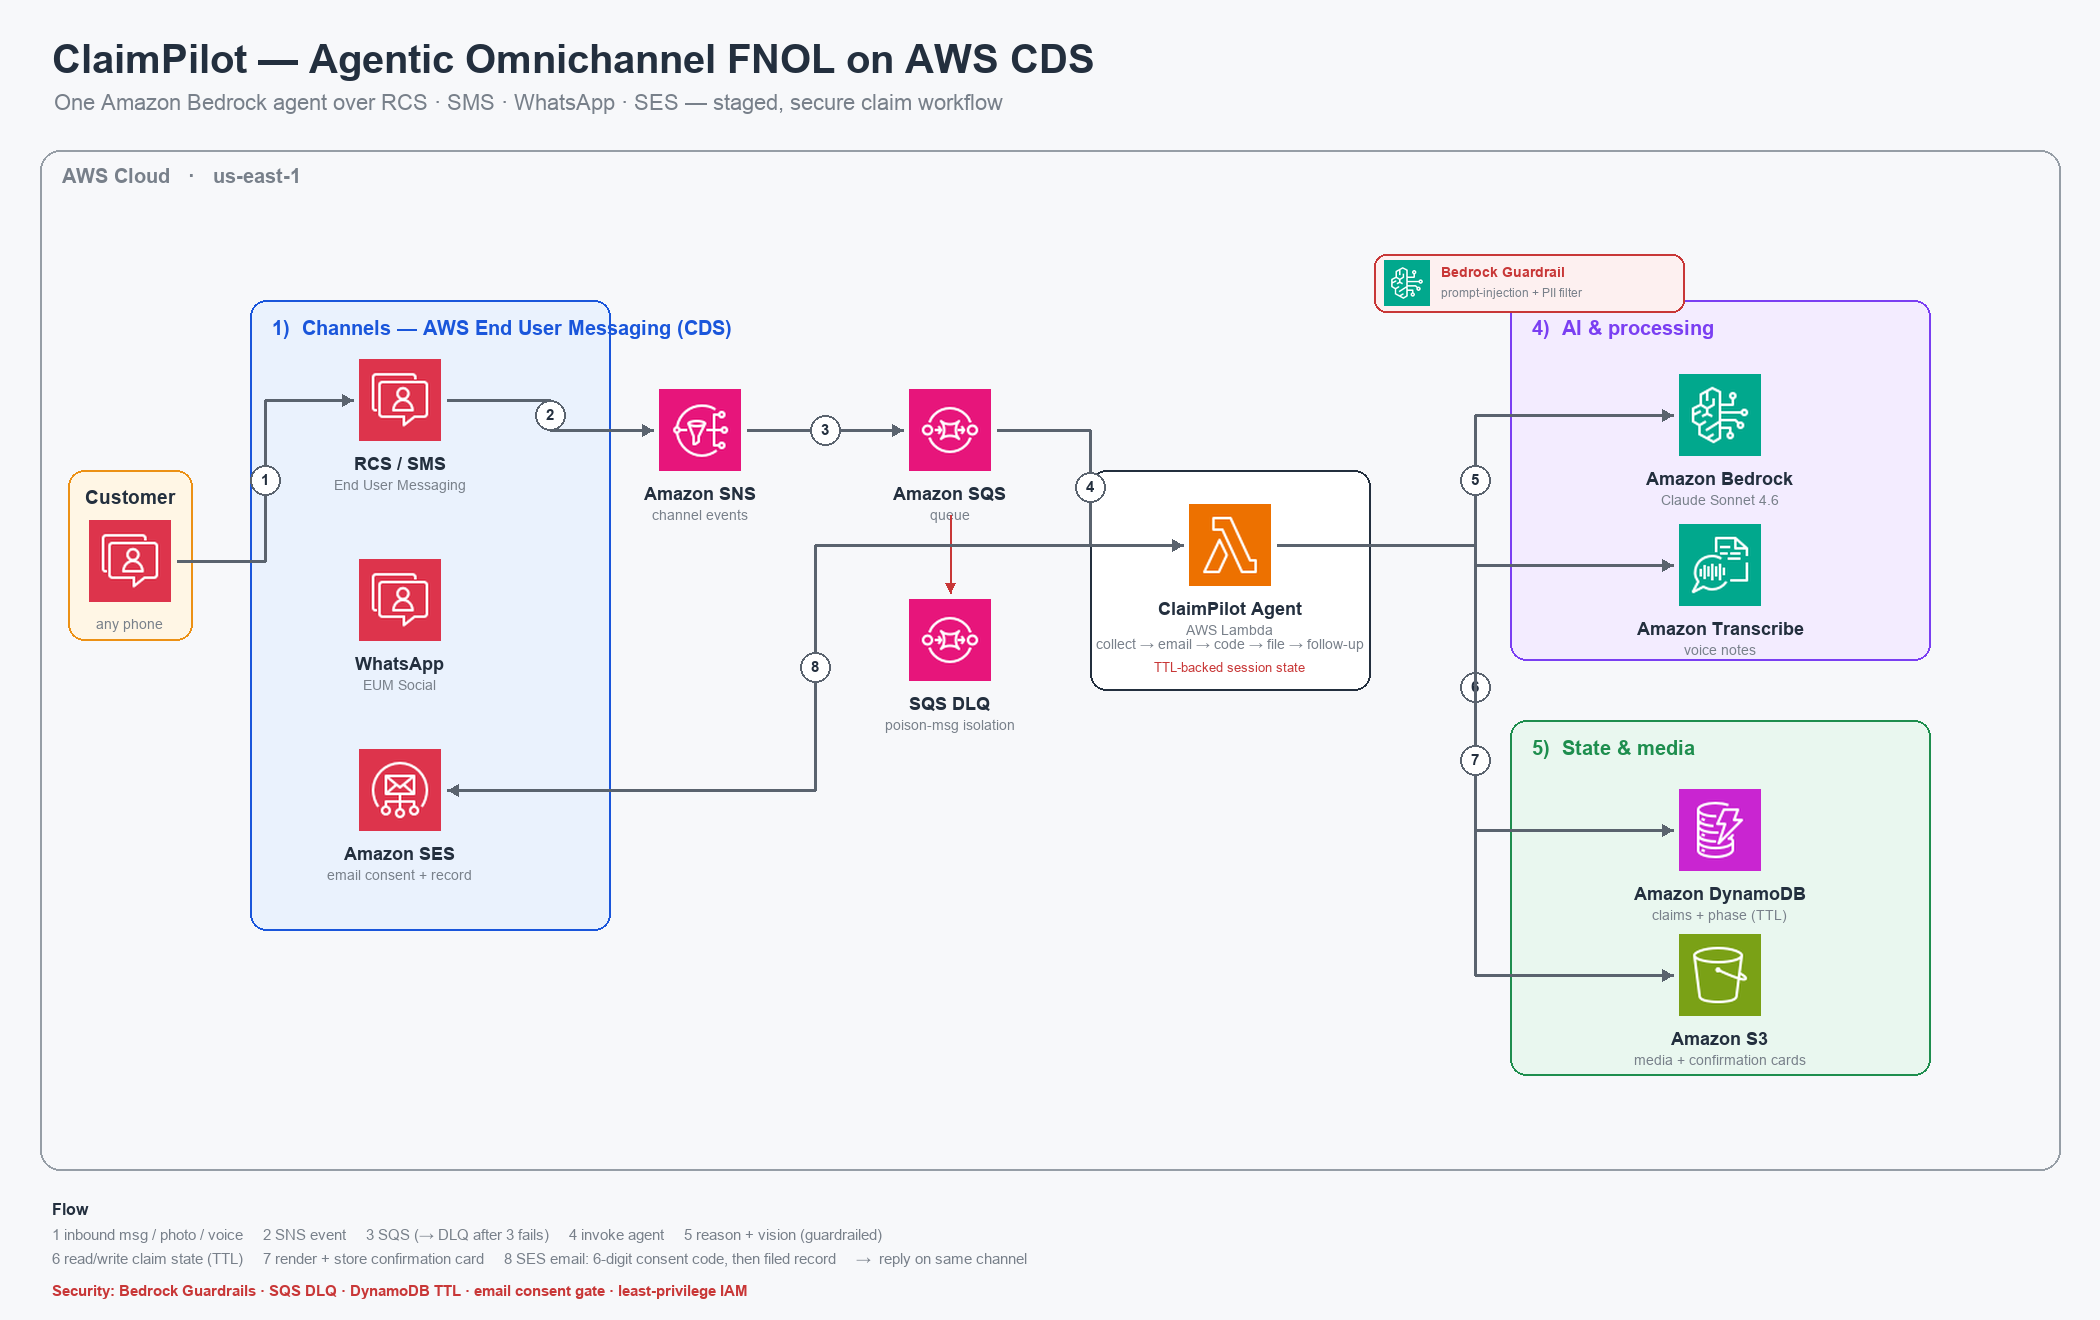
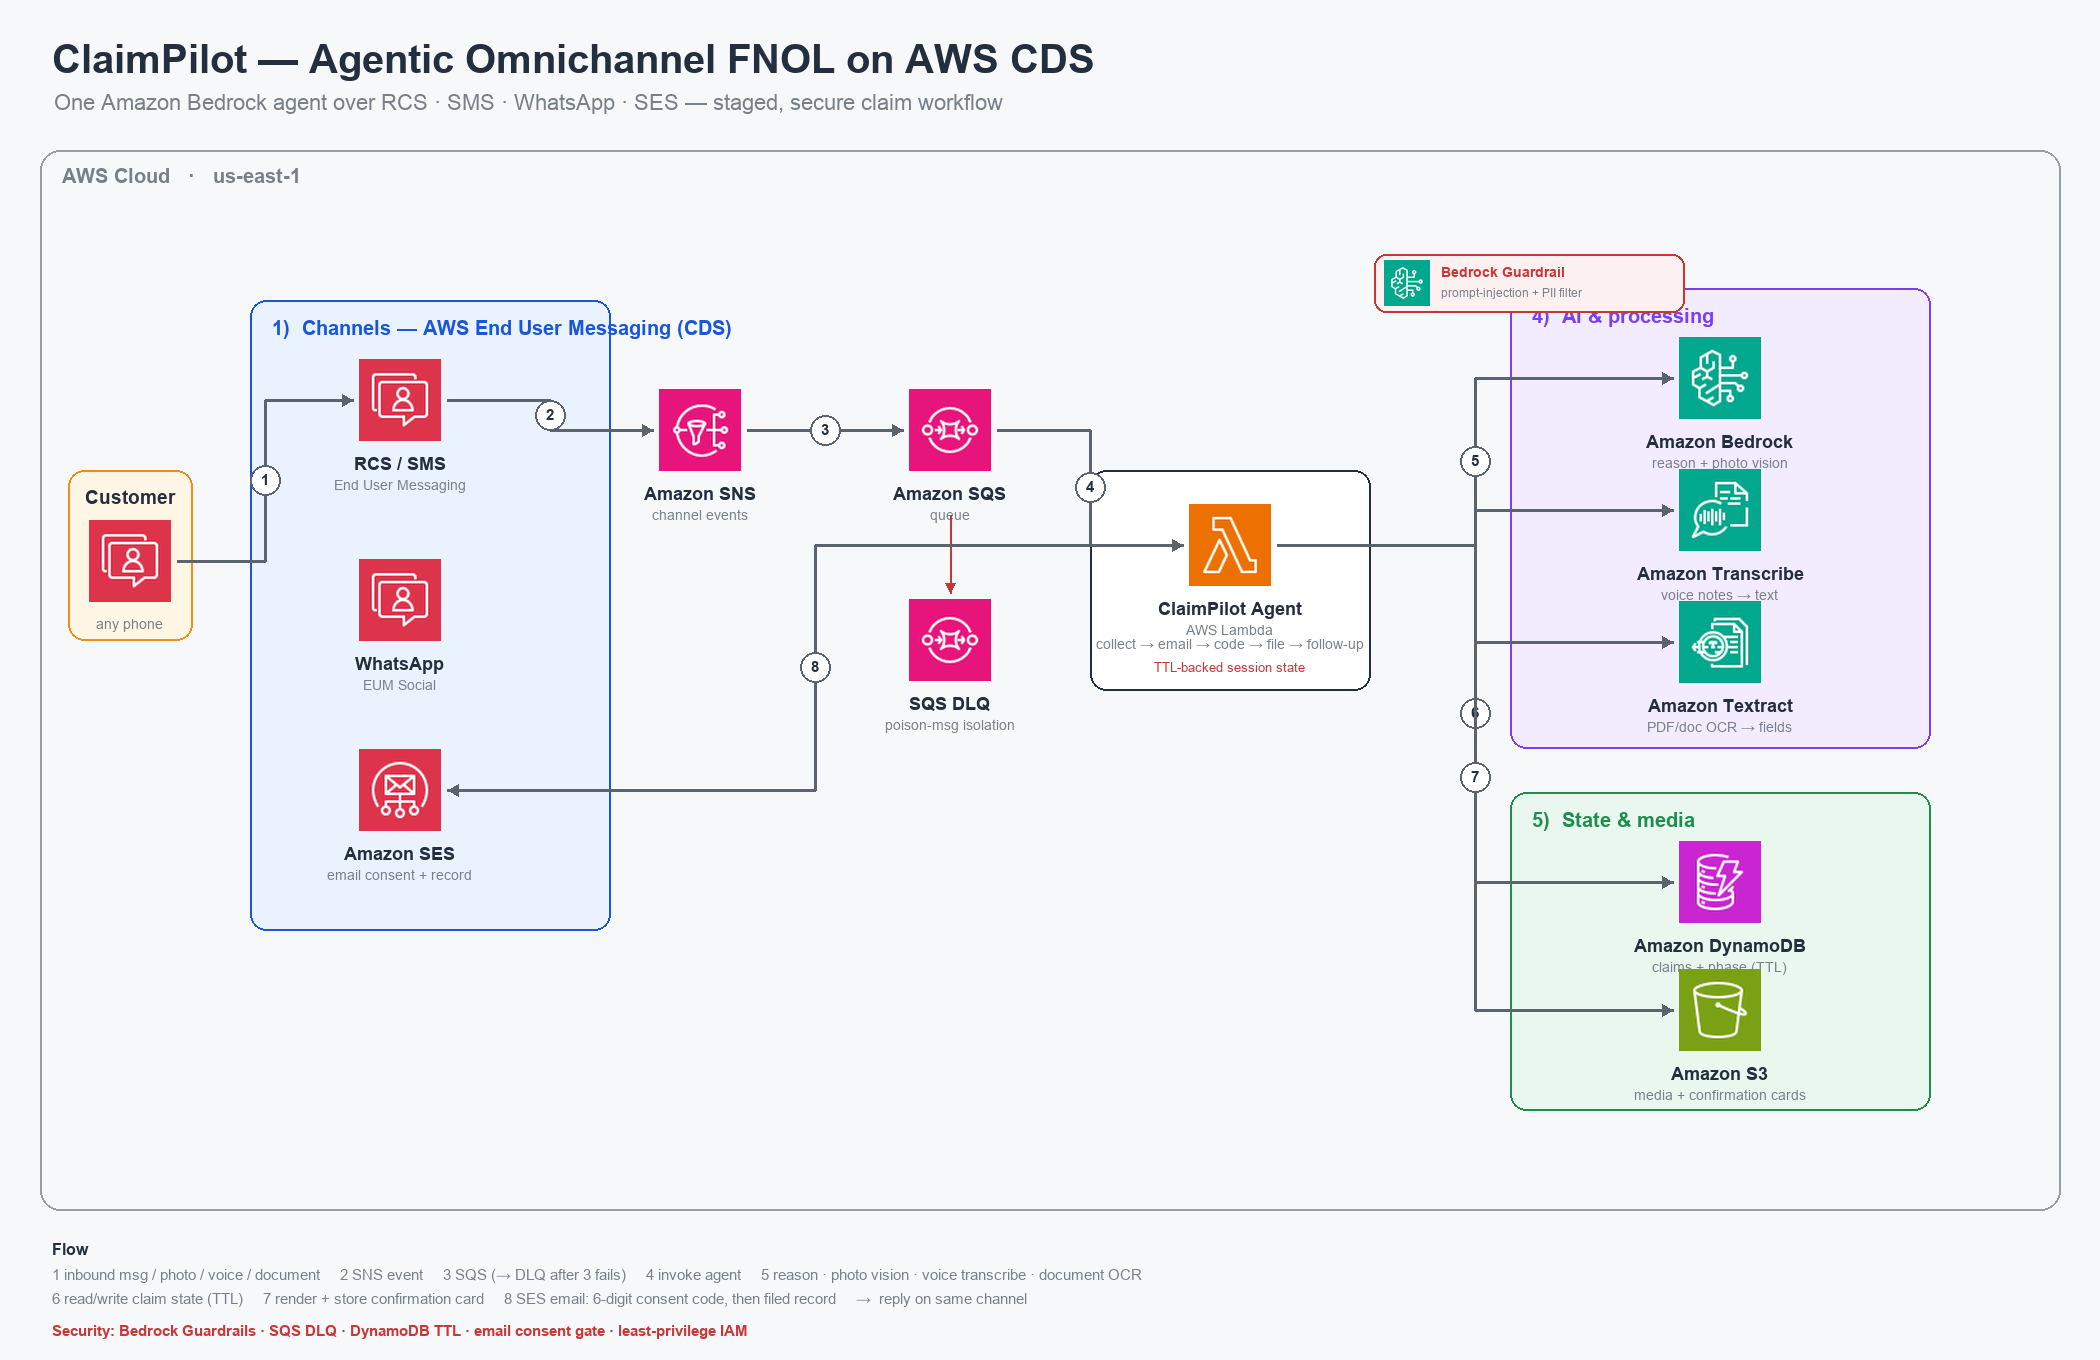
Add Amazon Textract (document OCR) to architecture diagram

diff --git a/infra/diagram/make_architecture.py b/infra/diagram/make_architecture.py
@@ -16,7 +16,7 @@ from PIL import Image, ImageDraw, ImageFont
 HERE = os.path.dirname(os.path.abspath(__file__))
 ICONS = os.path.join(HERE, "icons")
 
-W, H = 2100, 1320
+W, H = 2100, 1360
 BG = (247, 248, 250)
 INK = (35, 47, 62)
 MUTED = (120, 128, 138)
@@ -145,14 +145,15 @@ def main():
     d.text((XLAMBDA, 660), "TTL-backed session state", font=font(13), fill=SEC, anchor="ma")
 
     # ---------- 4) AI & processing ----------
-    group_box("ai", "4)  AI & processing", (XRIGHT - 210, 300, XRIGHT + 210, 660))
-    place("bedrock", "bedrock", XRIGHT, 415, "Amazon Bedrock", "Claude Sonnet 4.6")
-    place("transcribe", "transcribe", XRIGHT, 565, "Amazon Transcribe", "voice notes")
+    group_box("ai", "4)  AI & processing", (XRIGHT - 210, 288, XRIGHT + 210, 748))
+    place("bedrock", "bedrock", XRIGHT, 378, "Amazon Bedrock", "reason + photo vision")
+    place("transcribe", "transcribe", XRIGHT, 510, "Amazon Transcribe", "voice notes → text")
+    place("textract", "textract", XRIGHT, 642, "Amazon Textract", "PDF/doc OCR → fields")
 
     # ---------- 5) State & media ----------
-    group_box("data", "5)  State & media", (XRIGHT - 210, 720, XRIGHT + 210, 1075))
-    place("ddb", "dynamodb", XRIGHT, 830, "Amazon DynamoDB", "claims + phase (TTL)")
-    place("s3", "s3", XRIGHT, 975, "Amazon S3", "media + confirmation cards")
+    group_box("data", "5)  State & media", (XRIGHT - 210, 792, XRIGHT + 210, 1110))
+    place("ddb", "dynamodb", XRIGHT, 882, "Amazon DynamoDB", "claims + phase (TTL)")
+    place("s3", "s3", XRIGHT, 1010, "Amazon S3", "media + confirmation cards")
 
     # ---------- flow arrows ----------
     h_arrow("cust", "rcs", "1")
@@ -161,6 +162,7 @@ def main():
     h_arrow("sqs", "lambda", "4")
     h_arrow("lambda", "bedrock", "5")
     h_arrow("lambda", "transcribe")
+    h_arrow("lambda", "textract")
     h_arrow("lambda", "ddb", "6")
     h_arrow("lambda", "s3", "7")
     h_arrow("lambda", "ses", "8")
@@ -182,8 +184,8 @@ def main():
     ly = H - 120
     d.text((52, ly), "Flow", font=font(16, True), fill=INK)
     d.text((52, ly + 26),
-           "1 inbound msg / photo / voice     2 SNS event     3 SQS (→ DLQ after 3 fails)     "
-           "4 invoke agent     5 reason + vision (guardrailed)",
+           "1 inbound msg / photo / voice / document     2 SNS event     3 SQS (→ DLQ after 3 fails)     "
+           "4 invoke agent     5 reason · photo vision · voice transcribe · document OCR",
            font=font(15), fill=MUTED)
     d.text((52, ly + 50),
            "6 read/write claim state (TTL)     7 render + store confirmation card     "
